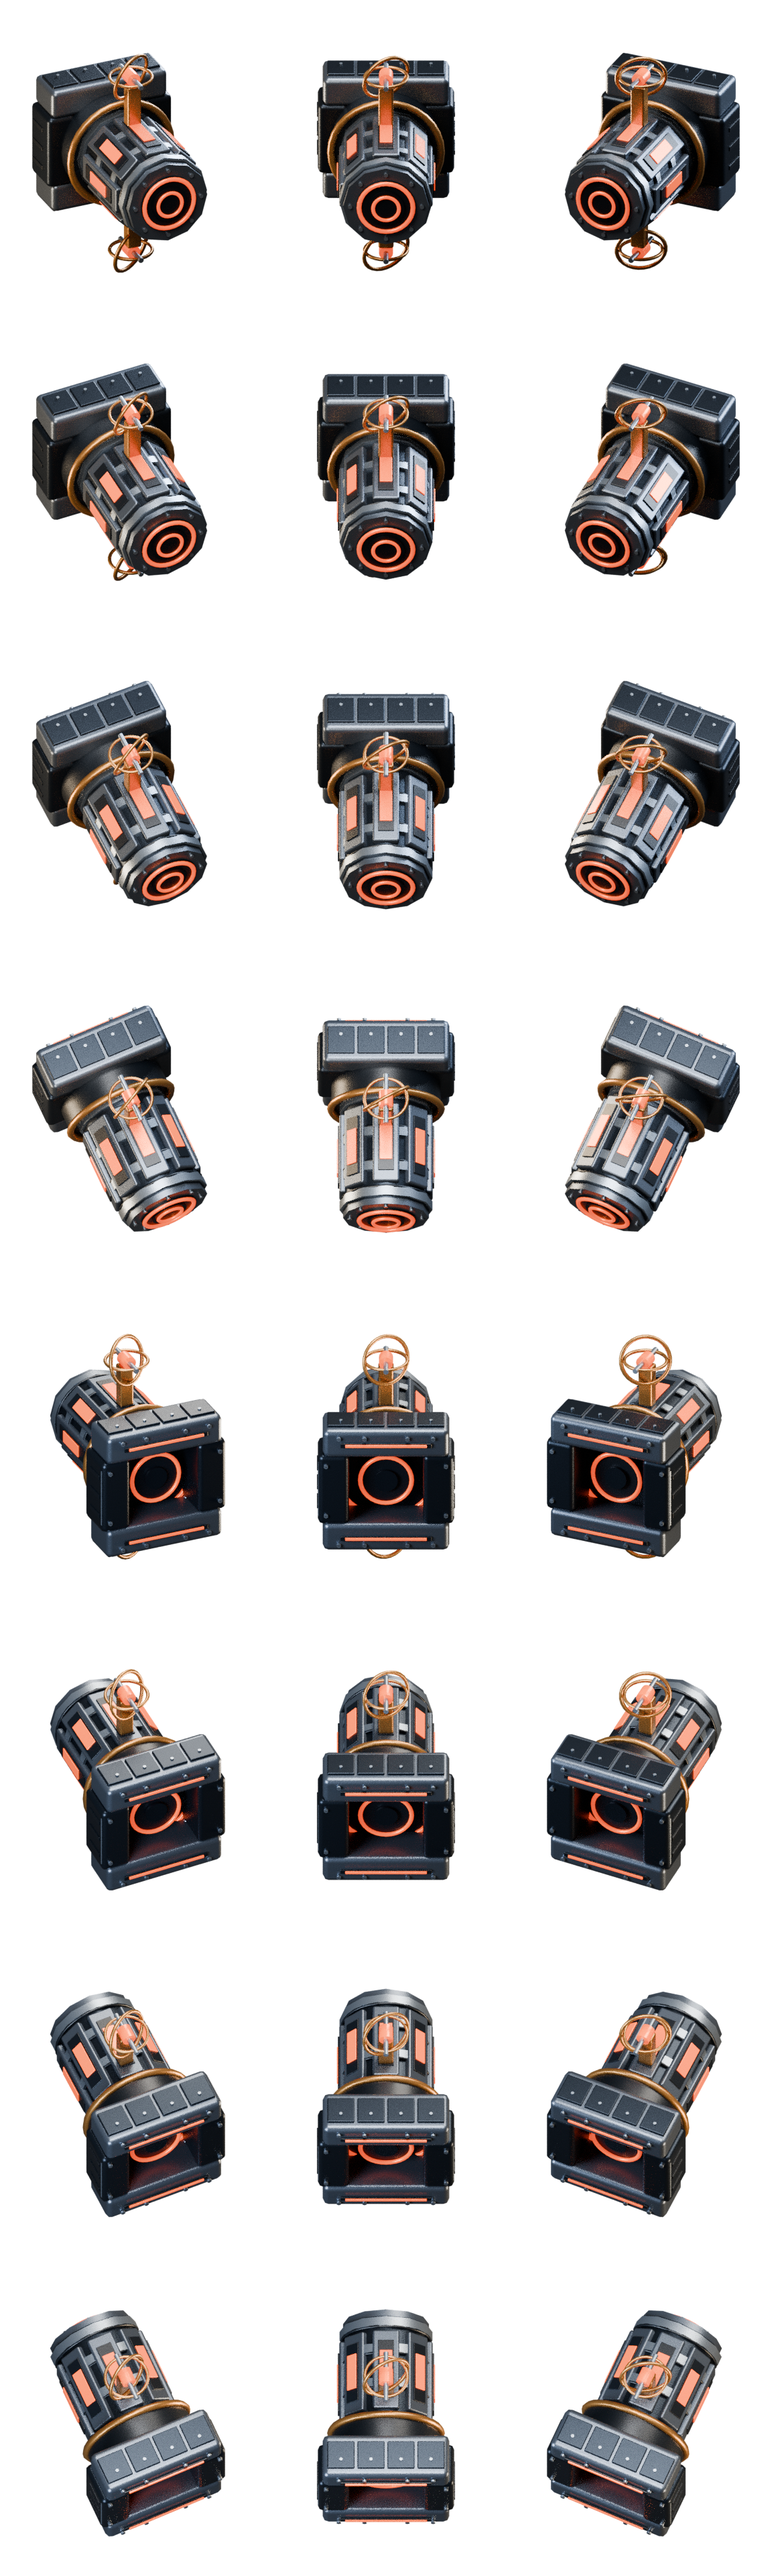
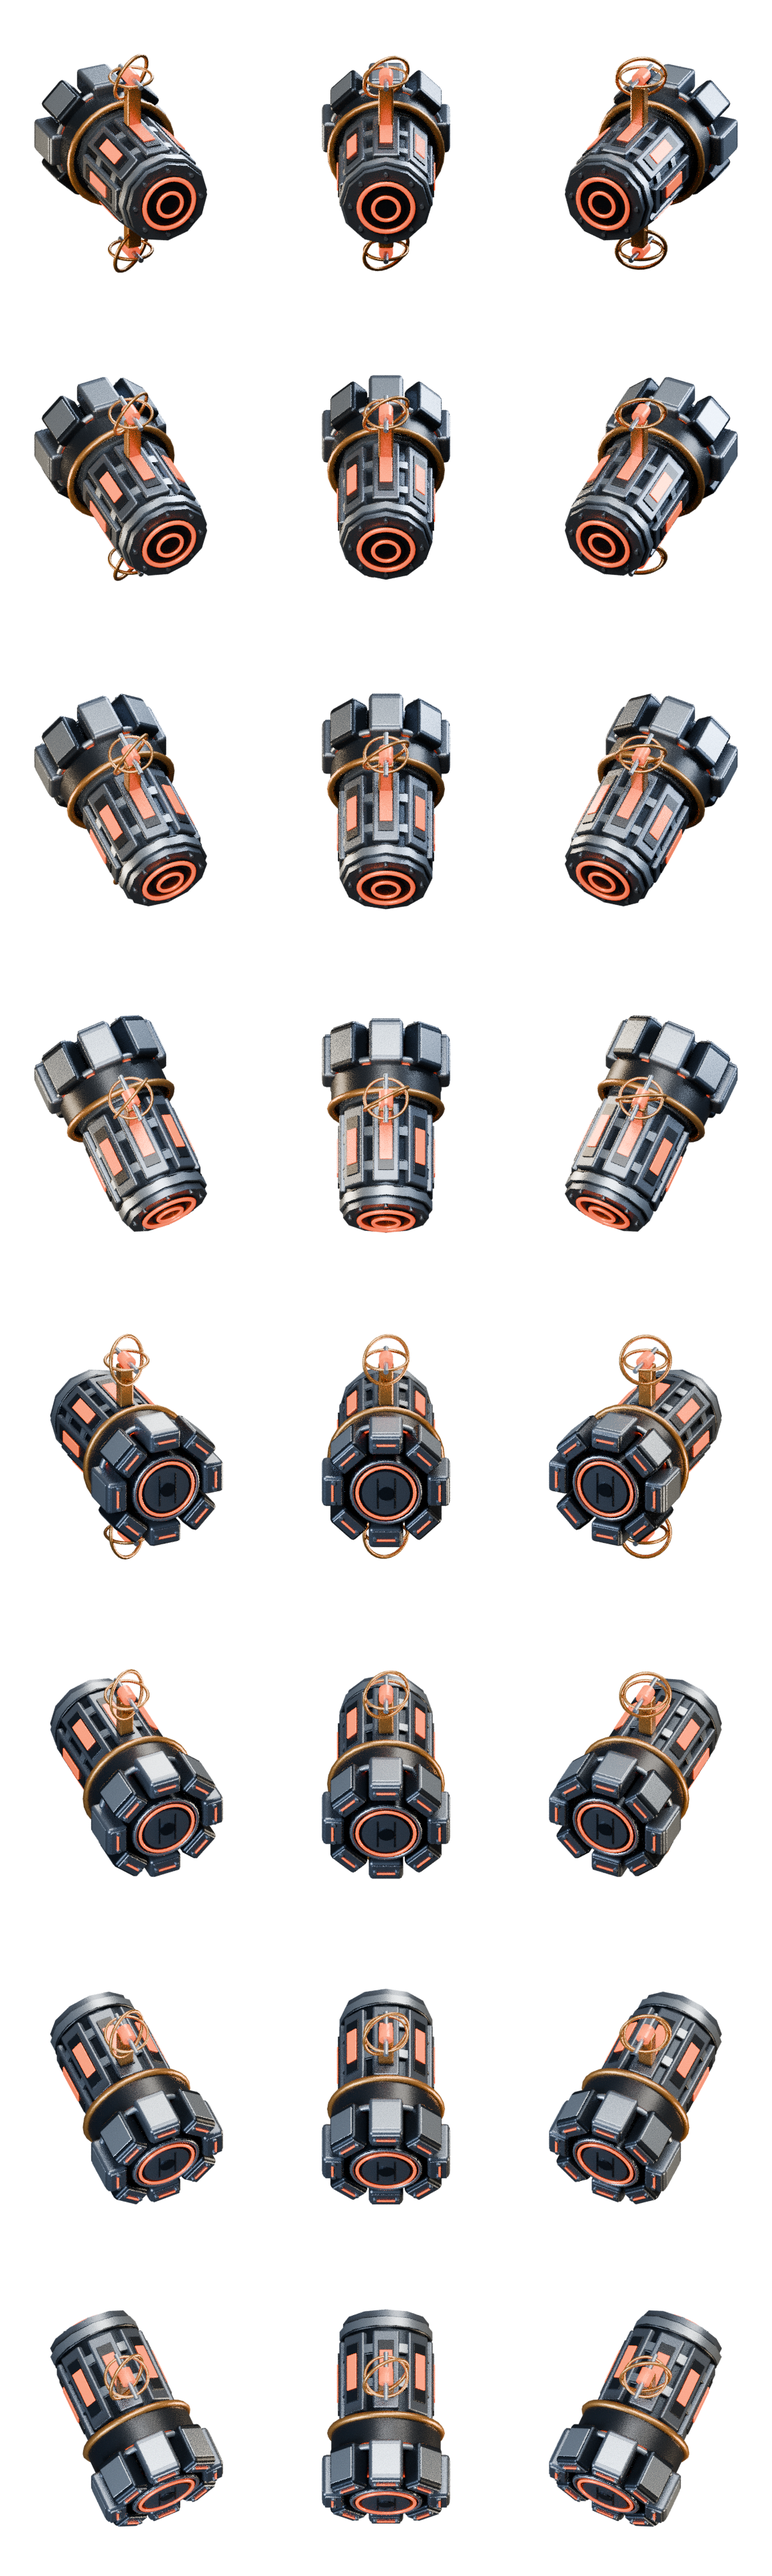
Maglio: elimina la grande cornice quadrata della testata e riduce proiettile e scia al 48%

diff --git a/src/maglioProjectile3D.js b/src/maglioProjectile3D.js
@@ -6,6 +6,8 @@ import {RoundedBoxGeometry} from 'three/addons/geometries/RoundedBoxGeometry.js'
 // Una camera fissa sopra il tavolo. Origine e bersaglio sono misurati nel DOM
 // e riproiettati su questo piano: il naso arriva esattamente al punto colpito.
 export const MAGLIO_NOSE_Z=-.88;
+// Dimensione fisica in partita, distinta dal modello artistico e dai render.
+export const MAGLIO_PROJECTILE_SCALE=.48;
 export function createProjectileCamera(){
  const camera=new PerspectiveCamera(42,450/800,.1,100);
  camera.position.set(0,12,12);camera.lookAt(0,0,0);camera.updateMatrixWorld(true);
@@ -22,7 +24,7 @@ export function projectileFlightFrame(from,to,progress,camera){
  const a=boardPointToWorld(from,camera),b=boardPointToWorld(to,camera);
  const direction=b.clone().sub(a).normalize();
  const nose=a.clone().lerp(b,Math.max(0,Math.min(1,progress)));
- const center=nose.clone().addScaledVector(direction,MAGLIO_NOSE_Z);
+ const center=nose.clone().addScaledVector(direction,MAGLIO_NOSE_Z*MAGLIO_PROJECTILE_SCALE);
  return {nose,center,direction,yaw:Math.atan2(-direction.x,-direction.z),
   visibleEnd:direction.dot(camera.position.clone().sub(center))>0?'front':'rear'};
 }
@@ -89,28 +91,24 @@ export function createMaglioProjectile(tier=0){
  for(const z of [-.25,-.37,-.45])ring('Avvolgimento arancione',z,.47,.024,m.orange);
  ring('Bordo flangia',-.18,.514,.035,tier===1?m.bronze:m.edge);
  ring('Bordo anteriore flangia',-.49,.515,.032,m.edge);
- // Testa a quattro ganasce, con apertura centrale e piastre frontali separate.
- for(const side of [-1,1]){
-  box('Piastra orizzontale',[0,side*.49,-.63],[1.18,.29,.43],m.steel,.055);
-  box('Smusso piastra',[0,side*.59,-.67],[1.02,.058,.31],m.edge,.018);
-  for(const x of [-.42,-.14,.14,.42]){
-   box('Pannello superiore testata',[x,side*.64,-.63],[.255,.035,.27],m.dark,.012);
-   const o=cyl('Rivetto superiore',-.68,.016,.012,m.edge,6,x,side*.665);
-   o.rotation.x=side>0?0:Math.PI;
-  }
-  box('Giunto piastra',[0,side*.49,-.858],[.85,.046,.018],m.black,.005);
-  box('Fessura luminosa',[0,side*.49,-.871],[.76,.027,.016],m.orange,.004);
-  box('Mascella laterale',[side*.49,0,-.62],[.29,.73,.42],m.dark,.05);
-  box('Piastra laterale',[side*.608,0,-.64],[.05,.60,.32],m.edge,.015);
-  for(const y of [-.2,0,.2]){
-   box('Griglia laterale',[side*.637,y,-.65],[.012,.044,.22],m.black,.003);
-  }
-  for(const x of [-.44,-.20,.20,.44])bolt(x,side*.56,-.86);
-  for(const y of [-.26,.26])bolt(side*.56,y,-.84);
+ // Testata compatta a otto piastre separate: niente cornice rettangolare
+ // vuota. Il pistone d'urto occupa il fronte e resta un volume metallico.
+ for(let i=0;i<8;i++){
+  const a=i*Math.PI/4,x=Math.sin(a),y=Math.cos(a),rotation=[0,0,-a];
+  box('Segmento corazza testata',[x*.49,y*.49,-.65],[.32,.21,.42],i%2?m.dark:m.steel,.038,rotation);
+  box('Piastra frontale testata',[x*.49,y*.49,-.855],[.27,.16,.035],m.steel,.014,rotation);
+  box('Smusso testata',[x*.58,y*.58,-.65],[.27,.035,.31],m.edge,.011,rotation);
+  box('Fessura termica testata',[x*.50,y*.50,-.878],[.18,.018,.008],m.orange,.003,rotation);
+  for(const side of [-1,1])bolt(x*.49+side*Math.cos(a)*.103,y*.49-side*Math.sin(a)*.103,-.878);
  }
- cyl('Recesso del nucleo',-.57,.26,.07,m.black,32);
- ring('Anello frontale',-.617,.24,.021,tier===3?m.violet:m.orange);
- cyl('Nucleo frontale',-.626,.11,.022,tier===3?m.violet:m.dark,24);
+ cyl('Pistone frontale',-.795,.34,.14,m.dark,24);
+ ring('Flangia pistone frontale',-.854,.32,.022,m.edge);
+ ring('Anello frontale',-.873,.27,.015,tier===3?m.violet:m.orange);
+ cyl('Nucleo frontale',-.868,.225,.022,tier===3?m.violet:m.steel,24);
+ if(tier<3){
+  for(const side of [-1,1])box('Giunto pistone',[side*.08,0,-.883],[.014,.32,.006],m.black,.002);
+  cyl('Centro pistone',-.888,.07,.012,m.dark,16);
+ }
  if(tier===1){
   for(const side of [-1,1]){
    box('Braccio giroscopio',[0,side*.63,.09],[.14,.44,.12],m.bronze,.022);

diff --git a/src/MaglioProjectileScene.jsx b/src/MaglioProjectileScene.jsx
@@ -2,7 +2,7 @@ import React,{useEffect,useRef} from 'react';
 import {Scene,Vector3} from 'three';
 import {MaglioPerspectiveRenderer} from './maglioPerspectiveRenderer.js';
 import {createProjectileCamera,createMaglioProjectile,disposeProjectile,
- projectileFlightFrame,worldPointToBoard} from './maglioProjectile3D.js';
+ projectileFlightFrame,worldPointToBoard,MAGLIO_PROJECTILE_SCALE} from './maglioProjectile3D.js';
 
 export default function MaglioProjectileScene({paths,startedAt}){
  const host=useRef(null);
@@ -18,7 +18,11 @@ export default function MaglioProjectileScene({paths,startedAt}){
   element.dataset.renderer='perspective-3d-views';
   element.append(trail,canvas);
   const scene=new Scene(),camera=createProjectileCamera();
-  const entries=paths.map(path=>({...path,model:createMaglioProjectile(path.profile.tier)}));
+  const entries=paths.map(path=>{
+   const model=createMaglioProjectile(path.profile.tier);model.scale.setScalar(MAGLIO_PROJECTILE_SCALE);
+   return {...path,model};
+  });
+  element.dataset.physicalScale=String(MAGLIO_PROJECTILE_SCALE);
   let raf=0;
   const draw=now=>{
    const age=now-startedAt;ctx.clearRect(0,0,450,800);
@@ -35,21 +39,21 @@ export default function MaglioProjectileScene({paths,startedAt}){
     element.dataset.progress=progress.toFixed(3);
     element.dataset.nose=JSON.stringify(worldPointToBoard(pose.nose,camera));
     // La scia nasce dall'ugello posteriore nello stesso spazio 3D del corpo.
-    const rear=pose.center.clone().addScaledVector(pose.direction,-.96);
+    const rear=pose.center.clone().addScaledVector(pose.direction,-.96*MAGLIO_PROJECTILE_SCALE);
     const head=worldPointToBoard(rear,camera);
-    const tail=worldPointToBoard(rear.clone().addScaledVector(pose.direction,-1.7),camera);
+    const tail=worldPointToBoard(rear.clone().addScaledVector(pose.direction,-1.7*MAGLIO_PROJECTILE_SCALE),camera);
     const radius=Math.hypot(head.x-tail.x,head.y-tail.y)*.30;
     const glow=ctx.createRadialGradient(head.x,head.y,0,head.x,head.y,radius);
     glow.addColorStop(0,profile.glow+'aa');glow.addColorStop(1,profile.glow+'00');
     ctx.fillStyle=glow;ctx.fillRect(head.x-radius,head.y-radius,radius*2,radius*2);
     ctx.globalAlpha=Math.min(1,progress*18,(1-progress)*22);
     for(let i=0;i<5+profile.tier*2;i++){
-     const a=i*2.39996,offset=new Vector3(Math.sin(a)*.12,Math.cos(a)*.12,0);
+     const a=i*2.39996,offset=new Vector3(Math.sin(a)*.12,Math.cos(a)*.12,0).multiplyScalar(MAGLIO_PROJECTILE_SCALE);
      const s=worldPointToBoard(rear.clone().add(offset),camera);
-     const e=worldPointToBoard(rear.clone().addScaledVector(pose.direction,-(1+i%4*.24)).add(offset.multiplyScalar(.35)),camera);
+     const e=worldPointToBoard(rear.clone().addScaledVector(pose.direction,-(1+i%4*.24)*MAGLIO_PROJECTILE_SCALE).add(offset.multiplyScalar(.35)),camera);
      const g=ctx.createLinearGradient(s.x,s.y,e.x,e.y);
      g.addColorStop(0,i%2?profile.core:profile.glow);g.addColorStop(1,profile.glow+'00');
-     ctx.strokeStyle=g;ctx.lineWidth=i===0?4:1.1;ctx.beginPath();ctx.moveTo(s.x,s.y);ctx.lineTo(e.x,e.y);ctx.stroke();
+     ctx.strokeStyle=g;ctx.lineWidth=(i===0?4:1.1)*Math.sqrt(MAGLIO_PROJECTILE_SCALE);ctx.beginPath();ctx.moveTo(s.x,s.y);ctx.lineTo(e.x,e.y);ctx.stroke();
     }
     ctx.globalAlpha=1;
    }

diff --git a/src/maglioProjectile3D.test.js b/src/maglioProjectile3D.test.js
@@ -2,7 +2,7 @@ import test from 'node:test';
 import assert from 'node:assert/strict';
 import {Vector3,Box3,Scene,BoxGeometry,Mesh,MeshStandardMaterial} from 'three';
 import {createProjectileCamera,projectileFlightFrame,worldPointToBoard,
- createMaglioProjectile,disposeProjectile,MAGLIO_NOSE_Z} from './maglioProjectile3D.js';
+ createMaglioProjectile,disposeProjectile,MAGLIO_NOSE_Z,MAGLIO_PROJECTILE_SCALE} from './maglioProjectile3D.js';
 import {MaglioSoftwareRenderer} from './maglioSoftwareRenderer.js';
 import {projectileViewSamples} from './maglioPerspectiveRenderer.js';
 
@@ -20,7 +20,7 @@ for(const who of ['A','B'])for(const x of [110,225,340]){
    assert.ok(views.every(v=>v.row>=0&&v.row<8&&v.col>=0&&v.col<3));
    const forward=new Vector3(0,0,-1).applyAxisAngle(new Vector3(0,1,0),frame.yaw);
    assert.ok(forward.dot(frame.direction)>1-1e-10,'La testata punta lungo la traiettoria');
-   const nose=frame.center.clone().addScaledVector(forward,-MAGLIO_NOSE_Z);
+   const nose=frame.center.clone().addScaledVector(forward,-MAGLIO_NOSE_Z*MAGLIO_PROJECTILE_SCALE);
    assert.ok(nose.distanceTo(frame.nose)<1e-10);
    const point=worldPointToBoard(nose,camera);
    if(t===0)assert.ok(Math.hypot(point.x-from.x,point.y-from.y)<1e-8);
@@ -45,7 +45,7 @@ test('La camera riduce fisicamente il corpo che si allontana e conserva la verti
 test('Quattro volumi con retro, testata, giroscopi, dissipatori e prismi fisici',()=>{
  for(let tier=0;tier<4;tier++){
   const model=createMaglioProjectile(tier),names=[];model.traverse(o=>names.push(o.name));
-  assert.ok(names.includes('Ugello interno')&&names.includes('Piastra orizzontale'));
+  assert.ok(names.includes('Ugello interno')&&names.includes('Segmento corazza testata'));
   assert.equal(names.includes('Giroscopio'),tier===1);
   assert.equal(names.includes('Aletta dissipatrice'),tier>=2);
   assert.equal(names.includes('Prisma sfaccettato'),tier===3);

diff --git a/src/maglioPerspectiveRenderer.js b/src/maglioPerspectiveRenderer.js
@@ -61,7 +61,7 @@ export class MaglioPerspectiveRenderer{
    ctx.save();ctx.scale(this.ratio,this.ratio);
    const image=images.get(model.userData.tier),center=worldPointToBoard(model.position,camera);
    const forward=new Vector3(0,0,-1).applyAxisAngle(new Vector3(0,1,0),model.rotation.y);
-   const nose=worldPointToBoard(model.position.clone().addScaledVector(forward,-MAGLIO_NOSE_Z),camera);
+   const nose=worldPointToBoard(model.position.clone().addScaledVector(forward,-MAGLIO_NOSE_Z*model.scale.z),camera);
    const dx=nose.x-center.x,dy=nose.y-center.y;
    const samples=projectileViewSamples(model,camera);
    this.lastSamples=samples.map(v=>({row:v.row,col:v.col,end:v.end,weight:Math.round(v.weight*1000)/1000}));

diff --git a/scripts/render-maglio-projectile-atlas.py b/scripts/render-maglio-projectile-atlas.py
@@ -29,7 +29,7 @@ import bpy
 from mathutils import Matrix,Vector
 work,dest=map(Path,sys.argv[-2:]);extra='--extra' in sys.argv
 bpy.ops.object.select_all(action='SELECT');bpy.ops.object.delete(use_global=False)
-scene=bpy.context.scene;scene.render.engine='CYCLES';scene.cycles.samples=48;scene.cycles.use_denoising=False
+scene=bpy.context.scene;scene.render.engine='CYCLES';scene.cycles.samples=24;scene.cycles.use_denoising=False
 scene.render.resolution_x=384;scene.render.resolution_y=480;scene.render.resolution_percentage=100
 scene.render.film_transparent=True;scene.render.image_settings.file_format='PNG';scene.render.image_settings.color_mode='RGBA'
 scene.world.color=(.23,.23,.23);scene.view_settings.view_transform='AgX'

diff --git a/docs/REGOLA_EFFETTI_VISIVI_CARTE_2026-11-24.md b/docs/REGOLA_EFFETTI_VISIVI_CARTE_2026-11-24.md
@@ -93,3 +93,15 @@ Il suono d'impatto e la reazione dello scafo iniziano all'arrivo. La durata
 della risoluzione comprende tutte le carte mostrate e l'ultimo impatto,
 anche con tre carte selezionate e due Armi già in campo: i 30 secondi del
 turno successivo iniziano dopo questa sequenza.
+
+
+## Correzione testata e ingombro — 24 novembre
+
+La vecchia testata a quattro barre sembrava una grande cornice quadrata
+vuota ed è stata rifiutata. Il Maglio usa otto piastre compatte attorno
+al pistone metallico frontale. La scala fisica in partita è 0,48 rispetto
+al modello artistico precedente, con ugello e scia ridotti nella stessa
+proporzione. Non ridurre soltanto il bitmap: anche la distanza fra centro
+e naso segue la scala, così la testata arriva esattamente al bersaglio.
+Restano volo 1.400 ms, impatto 950 ms, viste A da dietro e B frontale.
+La carta ingrandita prima dello sparo non era l’oggetto della correzione.

diff --git a/AGENTS.md b/AGENTS.md
@@ -14,7 +14,10 @@ Le viste sono riproducibili con `scripts/build-maglio-projectile-atlas.mjs`;
 la mesh CPU rimane disponibile durante il caricamento. Non tornare a un'unica
 immagine obliqua ruotata nei due sensi. Conservare piastre, giroscopi, alette e prismi;
 mostrare questi dettagli durante
-il volo. La calibrazione approvata richiede leggibilità: il Maglio viaggia per
+il volo. **Correzione utente del 24/11:** testata compatta a piastre, senza
+una grossa cornice quadrata vuota; scala fisica in partita 0,48 rispetto
+al modello artistico. Ridimensionare anche scia e distanza naso/centro,
+conservando arrivo sul bersaglio e viste fronte/retro. La calibrazione approvata richiede leggibilità: il Maglio viaggia per
 1.400 ms e l'impatto rimane visibile 950 ms. Audio, reazione della nave e
 rilascio del turno usano gli stessi tempi. Il numero di colpi deriva dal motore.
 
